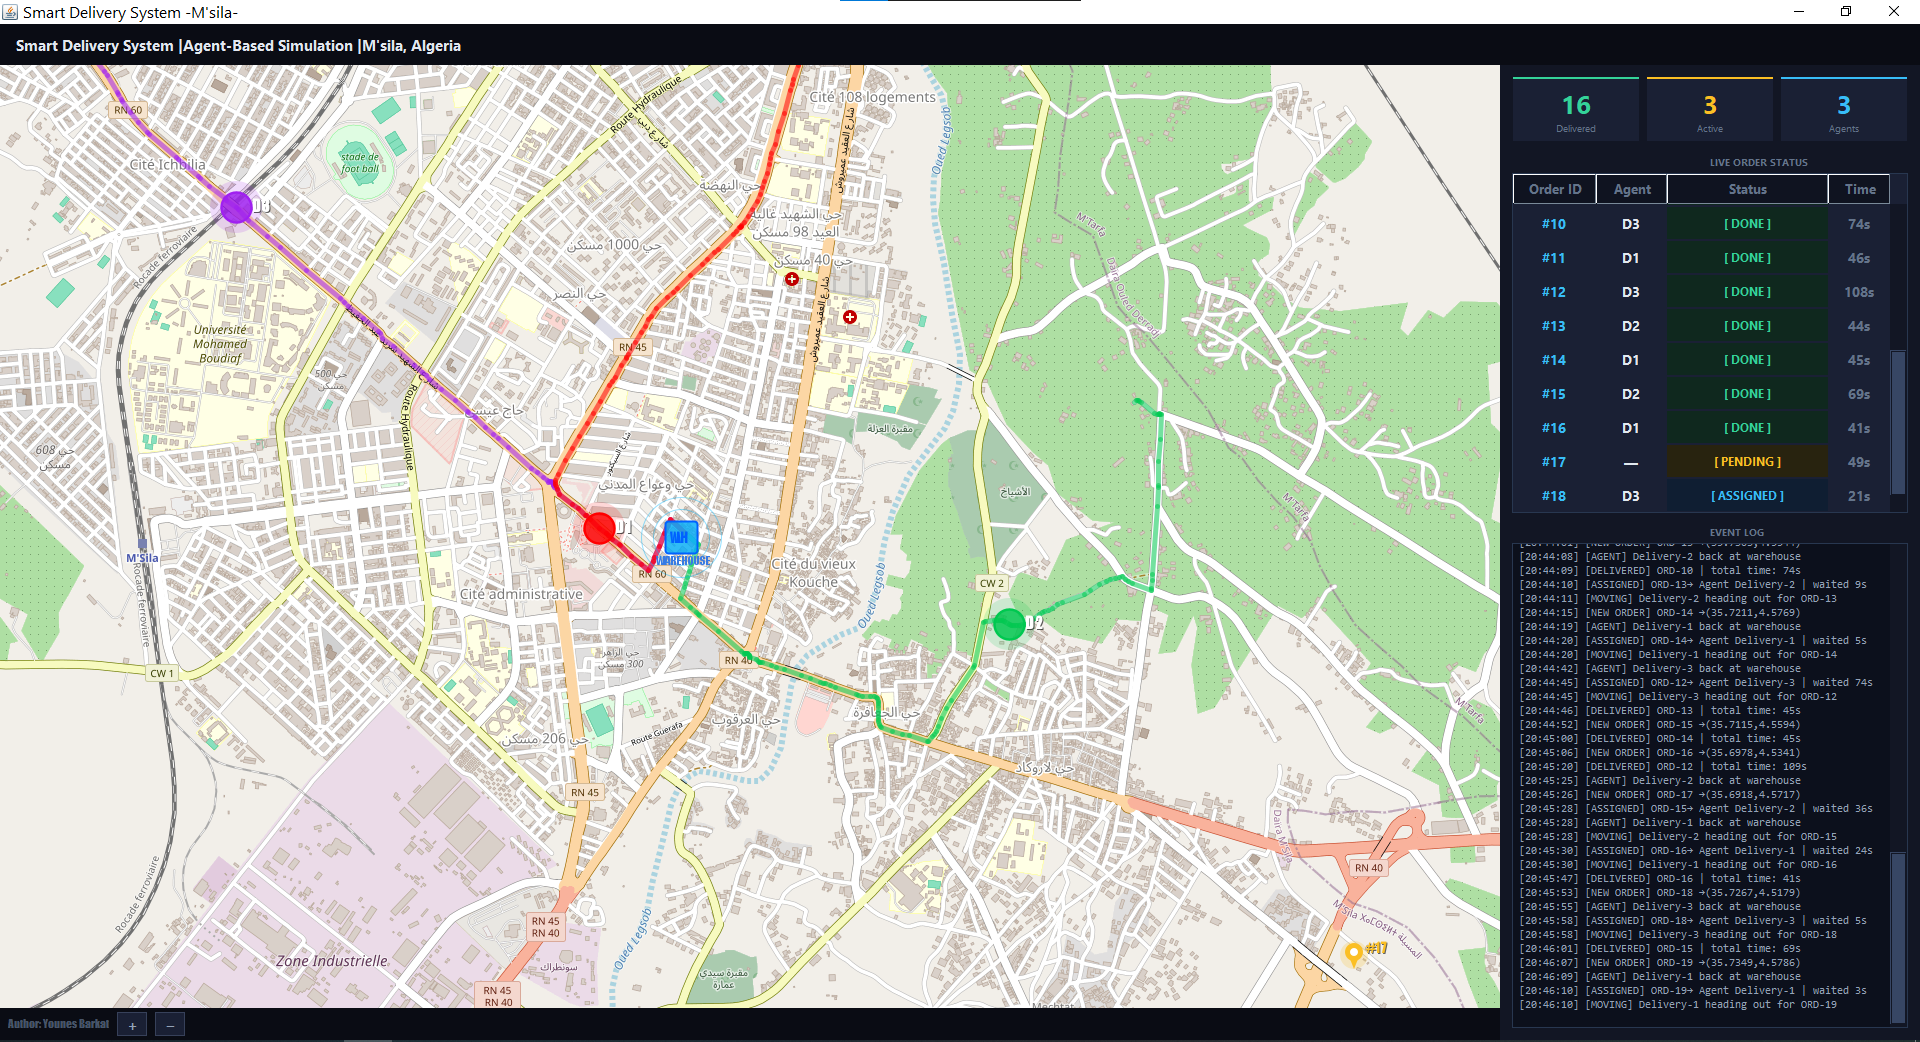
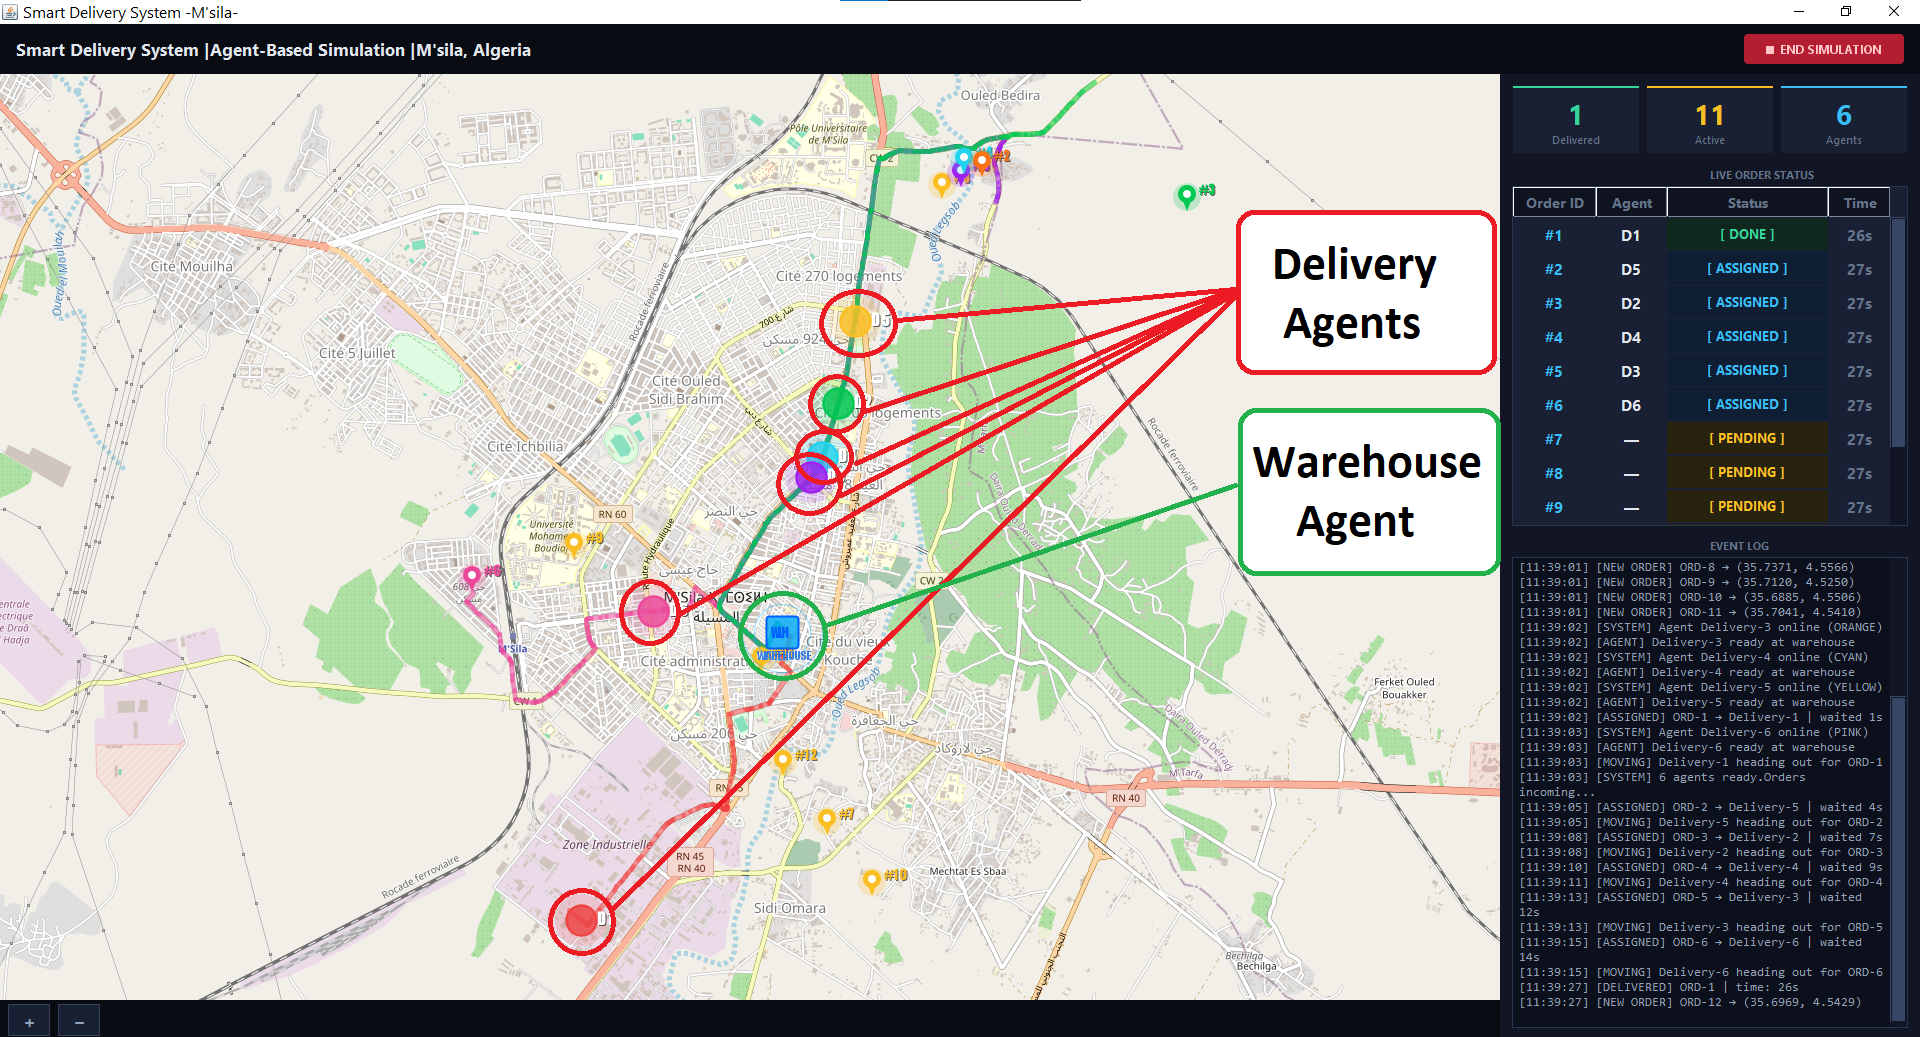
final

diff --git a/README.md b/README.md
@@ -1,77 +1,104 @@
 # Smart Delivery System — Agent-Based Simulation
 
-A multi-agent delivery simulation built with **JADE** (Java Agent DEvelopment Framework) and **JXMapViewer2**, running on a live OpenStreetMap of M'sila, Algeria.
+A multi-agent delivery simulation built with **JADE** and **JXMapViewer2**, running on a live OpenStreetMap of M'sila, Algeria.
 
-Three autonomous delivery agents negotiate orders in real time using the **Contract Net Protocol**, drive along real road routes fetched from the OSRM routing engine, and report back to a central warehouse agent — all visualized on an interactive map with a live status dashboard.
+Before the simulation starts, you pick how many agents you want (up to 10) and how many orders should be active at once (up to 15). Then you watch them negotiate, drive along real roads, and compete for deliveries — all on a live map with a dark-mode dashboard.
 
-![Simulation Screenshot](Screenshot.png)
+![Simulation Screenshot](screenshot.png)
+
+---
+
+## What it does
+
+Agents are autonomous — they register themselves, listen for job offers, calculate their own bids, drive their own routes, and report back when done. The warehouse never tells anyone where to go. It just announces jobs and picks whoever bids lowest.
+
+The whole coordination mechanism is the **Contract Net Protocol**: warehouse broadcasts a call for proposals, agents bid with their estimated travel time, the closest available agent wins, everyone else gets rejected. Simple rule, decent results.
+
+```
+Warehouse ──[ CFP ]──────────────► D1, D2, D3...
+          ◄──[ PROPOSE: 97s  ]──── D2 (free, closer)
+          ◄──[ PROPOSE: 142s ]──── D1 (free, farther)
+          ◄──[ REFUSE: BUSY  ]──── D3 (busy)
+          ──[ ACCEPT ]──────────► D2
+          ──[ REJECT ]──────────► D1
+          ◄──[ INFORM: DONE  ]──── D2 (after delivery)
+```
+
+Routes come from the free **OSRM** public API — real streets, real turns. If the API is unreachable, agents fall back to a straight-line approximation and keep going.
 
 ---
 
 ## Features
 
-- **Live OSM map** — real tiles of M'sila, draggable and zoomable
-- **3 autonomous agents** (red, green, purple) — each an independent JADE agent running in its own thread
-- **Contract Net Protocol** — warehouse broadcasts CFPs, agents bid based on estimated travel time, winner is selected automatically
-- **Real road routing** — routes fetched from the free OSRM API (`router.project-osrm.org`), with straight-line fallback when offline
-- **Animated movement** — agents move along waypoints at 30 km/h simulated speed
-- **Dynamic order pins** — yellow when waiting, switches to the assigned agent's color when picked up
-- **Live side panel** — order table with status, assigned agent, and elapsed time (stops counting when delivered)
-- **Dark mode UI** — color-coded status cells, dark scrollbars, stats strip
+- **1 to 10 delivery agents** — each gets a unique color, configurable before launch
+- **1 to 15 concurrent orders** — the warehouse fills slots automatically via a background ticker
+- **Live OpenStreetMap** of M'sila — draggable, zoomable, real tiles
+- **Real road routing** via OSRM, with offline fallback
+- **Color-coded pins** — yellow while waiting, switches to the agent's color when picked up
+- **Dark mode dashboard** — live order table, event log, stats strip (delivered / active / agents)
+- **Order timer** — counts up per row, freezes automatically when delivered
+- **End-of-simulation summary** — total deliveries, avg wait time, fastest/slowest delivery, agent leaderboard with progress bars
+- **Launch dialog** — configure agents and order count before each run
 
 ---
 
-## Architecture
+## Project structure
 
 ```
-Main.java
-├── SimulationWindow      ← Swing GUI (map + side panel)
-│   └── MapPanel          ← JXMapViewer + custom painters
-├── WarehouseAgent        ← JADE agent: generates orders, runs CNP
-├── DeliveryAgent (×3)    ← JADE agent: bids, drives, delivers
-├── MapRegistry           ← static bridge: agent threads → Swing EDT
+src/main/java/com/smartdelivery/
+├── Main.java
+├── agents/
+│   ├── WarehouseAgent.java      generates orders, runs Contract Net
+│   ├── DeliveryAgent.java       bids, drives, delivers, returns
+│   └── MapRegistry.java         thread-safe bridge between JADE and Swing
+├── gui/
+│   ├── LaunchDialog.java        pre-simulation config screen
+│   ├── SimulationWindow.java    main window — map + side panel + stats
+│   ├── MapPanel.java            JXMapViewer + 4 custom painters
+│   └── SummaryDialog.java       end-of-simulation analytics
 └── model/
-    ├── Order             ← lifecycle: PENDING → ASSIGNED → IN_TRANSIT → DELIVERED
-    └── Location          ← lat/lon + haversine distance
-```
-
-### Agent Interaction (Contract Net Protocol)
-
-```
-Warehouse ──CFP──────────────► Agent 1, 2, 3
-          ◄──PROPOSE (bid)──── Agent 1 (free)
-          ◄──PROPOSE (bid)──── Agent 2 (free)
-          ◄──REFUSE (busy)──── Agent 3
-          ──ACCEPT_PROPOSAL──► Agent 2 (lowest bid)
-          ──REJECT_PROPOSAL──► Agent 1
-          ◄──INFORM (done)──── Agent 2
+    ├── Order.java               PENDING → ASSIGNED → IN_TRANSIT → DELIVERED
+    └── Location.java            lat/lon + haversine distance
 ```
 
 ---
 
-## Tech Stack
+## How agents are built
 
-| Component | Technology |
-|-----------|-----------|
-| Agent framework | JADE 4.5.0 |
-| Map rendering | JXMapViewer2 2.6 |
-| Map tiles | OpenStreetMap |
-| Road routing | OSRM (free public API) |
-| GUI | Java Swing |
-| Build | Maven |
-| Java | JDK 21 |
+Each delivery agent runs three JADE behaviours in sequence:
+
+**WaitForJob** (CyclicBehaviour) — listens forever for CFPs. If free, calculates ETA and bids. If busy, refuses. Only calls `block()` when genuinely idle — this is important, blocking while delivering would stall the movement loop.
+
+**GoDeliver** (Behaviour) — fetches the OSRM route on first call, then walks along waypoints one step at a time at 250ms per step. Finishes when it reaches the destination.
+
+**GoBack** (Behaviour) — same idea, but drives back to the warehouse. Sets `free = true` when it arrives so the agent can take the next job.
+
+The warehouse uses two TickerBehaviours simultaneously — one dispatches pending orders every 2.5 seconds, the other fills empty order slots every 1.5 seconds. A WakerBehaviour delays the first spawn by 3 seconds so agents have time to register before the CFPs start flying.
 
 ---
 
-## Getting Started
+## Agent colors
 
-### Prerequisites
+10 agents, 10 colors. Consistent across the map dot, route line, delivery pin, and summary leaderboard.
 
-- JDK 21+
-- Maven 3.8+
-- Internet connection (for OSM tiles and OSRM routing — simulation still works offline with straight-line fallback)
+| Agent | Color |
+|---|---|
+| Delivery-1 | Red |
+| Delivery-2 | Green |
+| Delivery-3 | Purple |
+| Delivery-4 | Cyan |
+| Delivery-5 | Orange |
+| Delivery-6 | Pink |
+| Delivery-7 | Lime |
+| Delivery-8 | Sky Blue |
+| Delivery-9 | Coral |
+| Delivery-10 | Mint |
 
-### Run
+---
+
+## Getting started
+
+You need JDK 21+ and Maven. An internet connection is recommended (for map tiles and OSRM routing) but not required — it degrades gracefully offline.
 
 ```bash
 git clone https://github.com/Younes-Barkat/Delivery-System-Simulation.git
@@ -80,7 +107,9 @@ mvn clean package
 mvn exec:java -Dexec.mainClass="com.smartdelivery.Main"
 ```
 
-### `pom.xml` dependencies
+A launch dialog appears first. Pick your agent count and order limit, then hit Start.
+
+### Maven dependencies
 
 ```xml
 <repositories>
@@ -111,64 +140,68 @@ mvn exec:java -Dexec.mainClass="com.smartdelivery.Main"
 
 ---
 
-## Project Structure
+## Map controls
 
-```
-src/main/java/com/smartdelivery/
-├── Main.java
-├── agents/
-│   ├── WarehouseAgent.java
-│   ├── DeliveryAgent.java
-│   └── MapRegistry.java
-├── gui/
-│   ├── MapPanel.java
-│   └── SimulationWindow.java
-└── model/
-    ├── Location.java
-    └── Order.java
-```
-
----
-
-## How It Works
-
-1. **Startup** — warehouse registers in the JADE Yellow Pages, then waits 3 seconds for all delivery agents to boot and register
-2. **Order generation** — warehouse spawns 3 random orders at startup (max 6 active at once), then replaces each delivered order after a 6-second cooldown
-3. **Dispatch** — every 2.5 seconds, the warehouse polls the pending queue and broadcasts a CFP to all registered delivery agents
-4. **Bidding** — each free agent calculates its estimated travel time and replies with a PROPOSE; busy agents send REFUSE
-5. **Assignment** — warehouse picks the lowest bid, sends ACCEPT to the winner and REJECT to the rest
-6. **Delivery** — winning agent fetches a road route from OSRM, walks along the waypoints at 250ms per step, then notifies the warehouse on arrival
-7. **Return** — agent drives back to the warehouse along the return route and marks itself available again
-
----
-
-## Map Controls
-
-| Action | Control |
-|--------|---------|
+| Action | How |
+|---|---|
 | Pan | Click and drag |
-| Zoom in/out | Mouse scroll wheel |
-| Reset view | Buttons in floating legend |
+| Zoom | Mouse scroll wheel |
+| Zoom buttons | `+` / `−` in the bottom-left corner |
 
 ---
 
-## Simulation Parameters
+## Tunable parameters
 
-| Parameter | Value | Location |
-|-----------|-------|----------|
-| Max active orders | 6 | `WarehouseAgent.java` |
-| Agent speed | 30 km/h | `DeliveryAgent.java` |
-| Waypoint step delay | 250 ms | `DeliveryAgent.java` |
-| Order respawn delay | 6 s | `WarehouseAgent.java` |
-| Dispatch tick | 2.5 s | `WarehouseAgent.java` |
-| City bounding box | 35.685–35.740 N, 4.505–4.580 E | `WarehouseAgent.java` |
+Most things that affect simulation behavior are constants at the top of their respective files. Easy to find and change.
+
+| What | Default | Where |
+|---|---|---|
+| Agent speed | 30 km/h | `DeliveryAgent.SPEED` |
+| Step delay (visual speed) | 250 ms | `DeliveryAgent.STEP` |
+| Dispatch interval | 2500 ms | `WarehouseAgent.TICK` |
+| Order fill interval | 1500 ms | `WarehouseAgent` |
+| Post-delivery spawn delay | 6000 ms | `WarehouseAgent.SPAWN_DELAY` |
+| M'sila bounding box | 35.685–35.740 N, 4.505–4.580 E | `WarehouseAgent` |
+
+Max agents and max orders are set at runtime via the launch dialog.
 
 ---
 
-## Author
+## A note on bugs that were fixed
 
-**Younes Barkat**
-GitHub: [@Younes-Barkat](https://github.com/Younes-Barkat)
+A few non-obvious issues came up during development that are worth documenting in case anyone extends this:
+
+**Duplicate order IDs** — using `System.currentTimeMillis() % 10000` caused ID collisions when multiple orders spawned in the same millisecond. Fixed by using a simple `int seq` counter instead.
+
+**Agent taking two orders at once** — the ACCEPT handler didn't check `free` before accepting, so a stale ACCEPT message from a previous bid cycle could be picked up while already delivering. Fixed by adding `&& free` to the guard condition.
+
+**Agents not moving after assignment** — `WaitForJob` was calling `block()` unconditionally, which suspended the JADE thread and prevented `GoDeliver` from being scheduled. Fixed by making `block()` conditional on `free`.
+
+**GUI flickering** — agents were touching Swing components from JADE background threads. Fixed by wrapping all repaint calls in `SwingUtilities.invokeLater()` inside `MapPanel` and `SimulationWindow`.
+
+---
+
+## Tech stack
+
+| | |
+|---|---|
+| Agent framework | JADE 4.5.0 |
+| Map rendering | JXMapViewer2 2.6 |
+| Map tiles | OpenStreetMap |
+| Road routing | OSRM (public free API) |
+| GUI | Java Swing |
+| Build | Maven |
+| Java | JDK 21 |
+
+---
+
+## Authors
+
+Barkat Younes — [@Younes-Barkat](https://github.com/Younes-Barkat)
+Benkhelil Mohamed El Amin
+Rashwane Attoui
+
+Under the supervision of **Dr. Meliouh Amel** — M'sila University, Department of Computer Science
 
 ---
 
